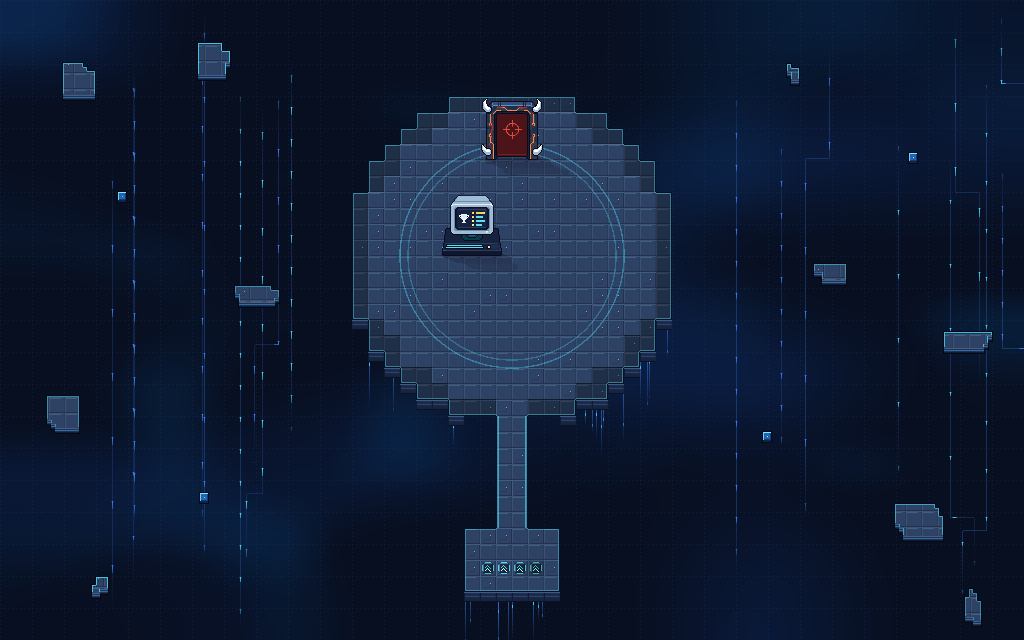
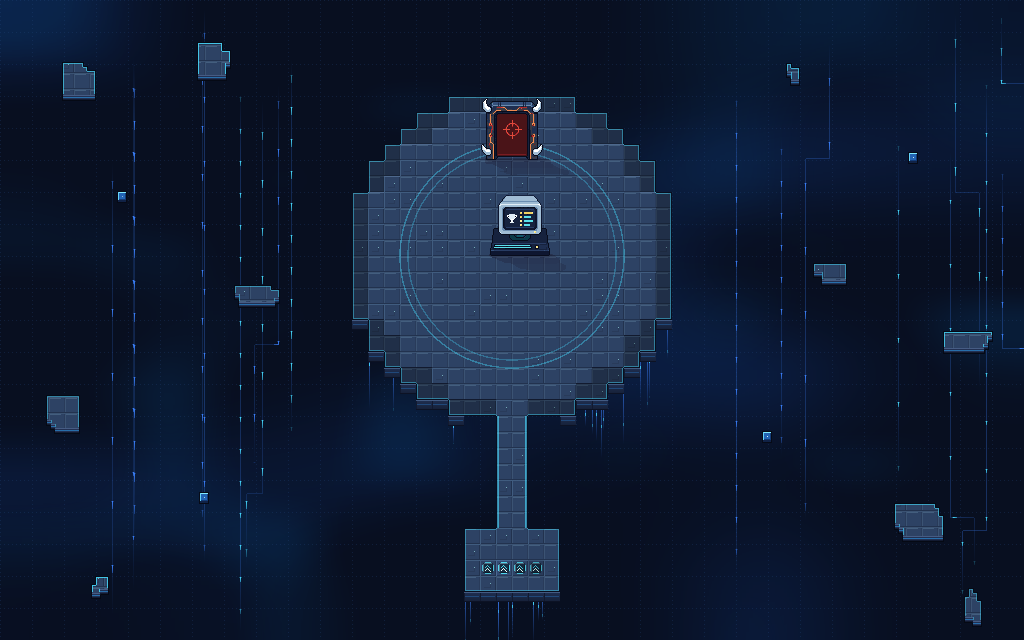
Karte 16: Computer drei Kacheln weiter nach rechts
Claude-Session: https://claude.ai/code/session_01SaoYHKhnro4LFcPJqjaPsq

Changed region(s): [[0.4062, 0.2812, 0.5625, 0.4062]]

diff --git a/tools/karte16_objekte.py b/tools/karte16_objekte.py
@@ -23,7 +23,7 @@ FUSS = 9                                   # Fussreihe von Tor und Computer
 # (Quelle, Mitte x in px, Fussreihe, Animation)
 OBJEKTE = [
     ('tor/00', ACHSE, FUSS, 'tor16'),
-    ('computer/00', ACHSE - 40, 15, 'bildschirm16'),   # Nutzerwunsch: tiefer, auf halber Hoehe der Plattform
+    ('computer/00', ACHSE + 8, 15, 'bildschirm16'),   # Nutzerwunsch: tiefer, auf halber Hoehe der Plattform
 ]
 
 
